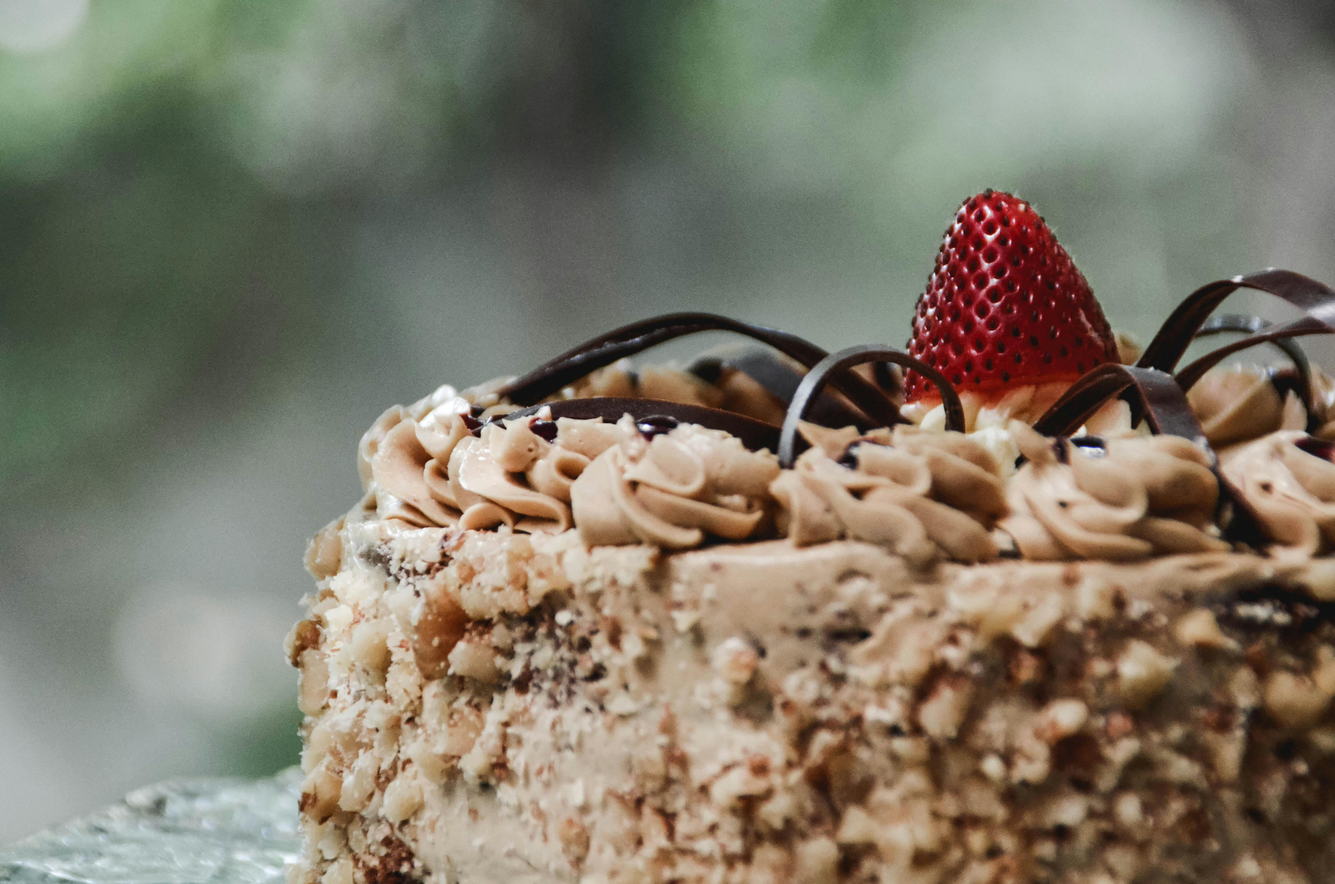
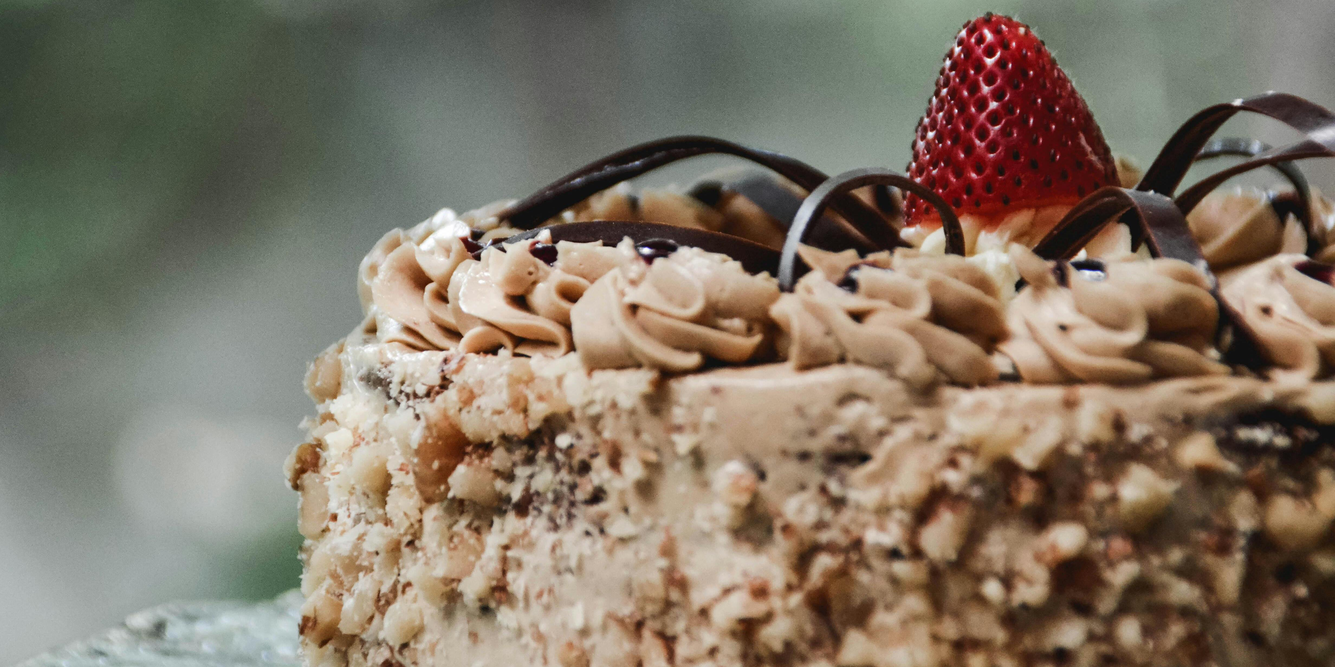
responsive container home and footer

diff --git a/src/components/Layouts/components/Header/index.jsx b/src/components/Layouts/components/Header/index.jsx
@@ -7,22 +7,22 @@ function Header() {
     navigator('/auth?mode=signin');
   };
 
-  const {pathname, search} = useLocation();
+  const { pathname, search } = useLocation();
 
-  useEffect(()=>{
-    window.scrollTo(0,0)
-  }, [pathname, search])
+  useEffect(() => {
+    window.scrollTo(0, 0);
+  }, [pathname, search]);
 
-  console.log(search)
+  console.log(search);
 
   const urls = ['/category', '/birthday-cake', '/tradition-cake', '/cookie', '/bread'];
   return (
     <header className="fixed top-0 z-10 h-16 w-full bg-slate-100">
-      <div className="mx-20 flex h-full items-center justify-between text-primary">
+      <div className="mx-10 flex h-full items-center justify-between gap-4 text-primary lg:mx-20">
         <Link to="/">
           <img src="./src/assets/images/logo.svg" alt="Cake with AI" className="mt-2" />
         </Link>
-        <ul className="flex gap-16 text-base uppercase">
+        <ul className="hidden lg:flex gap-12 px-4 text-base uppercase">
           <li className={pathname === '/' ? 'menu-active' : 'menu-navbar'}>
             <NavLink to="/">TRANG CHỦ</NavLink>
           </li>
@@ -44,7 +44,7 @@ function Header() {
             </NavLink>
 
             <div className="absolute left-0 top-full h-4 w-full cursor-default bg-transparent"></div>
-            <ul className="uppercase absolute left-0 top-10 z-10 hidden w-max rounded-lg bg-[#CAB6B6] text-sm group-hover:block">
+            <ul className="absolute left-0 top-10 z-10 hidden w-max rounded-lg bg-[#CAB6B6] text-sm uppercase group-hover:block">
               <li className="px-2 py-2 text-[#444444] hover:rounded-t-lg hover:bg-primary hover:text-slate-100">
                 <NavLink to="/birthday-cake">Bánh Sinh Nhật</NavLink>
               </li>
@@ -69,40 +69,50 @@ function Header() {
             <NavLink to="/about">VỀ CHÚNG TÔI</NavLink>
           </li>
         </ul>
-        <div className="flex gap-6">
-          {/* Cart Logo */}
-          <svg
-            xmlns="http://www.w3.org/2000/svg"
-            fill="none"
-            viewBox="0 0 24 24"
-            strokeWidth="1.5"
-            stroke="currentColor"
-            className="size-6 cursor-pointer"
-            onClick={() => viewCart()}
-          >
-            <path
-              strokeLinecap="round"
-              strokeLinejoin="round"
-              d="M2.25 3h1.386c.51 0 .955.343 1.087.835l.383 1.437M7.5 14.25a3 3 0 0 0-3 3h15.75m-12.75-3h11.218c1.121-2.3 2.1-4.684 2.924-7.138a60.114 60.114 0 0 0-16.536-1.84M7.5 14.25 5.106 5.272M6 20.25a.75.75 0 1 1-1.5 0 .75.75 0 0 1 1.5 0Zm12.75 0a.75.75 0 1 1-1.5 0 .75.75 0 0 1 1.5 0Z"
-            />
-          </svg>
-          {/* User Logo */}
-          <svg
-            xmlns="http://www.w3.org/2000/svg"
-            fill="none"
-            viewBox="0 0 24 24"
-            strokeWidth="1.5"
-            stroke="currentColor"
-            className="size-6 cursor-pointer hover:shadow-lg"
-            onClick={() => handleLogin()}
-          >
-            <path
-              strokeLinecap="round"
-              strokeLinejoin="round"
-              d="M15.75 6a3.75 3.75 0 1 1-7.5 0 3.75 3.75 0 0 1 7.5 0ZM4.501 20.118a7.5 7.5 0 0 1 14.998 0A17.933 17.933 0 0 1 12 21.75c-2.676 0-5.216-.584-7.499-1.632Z"
-            />
-          </svg>
-        </div>
+      
+      <div className="flex gap-6">
+        {/* Cart Logo */}
+        <svg
+          xmlns="http://www.w3.org/2000/svg"
+          fill="none"
+          viewBox="0 0 24 24"
+          strokeWidth="1.5"
+          stroke="currentColor"
+          className="navbar-icon"
+          onClick={() => viewCart()}
+        >
+          <path
+            strokeLinecap="round"
+            strokeLinejoin="round"
+            d="M2.25 3h1.386c.51 0 .955.343 1.087.835l.383 1.437M7.5 14.25a3 3 0 0 0-3 3h15.75m-12.75-3h11.218c1.121-2.3 2.1-4.684 2.924-7.138a60.114 60.114 0 0 0-16.536-1.84M7.5 14.25 5.106 5.272M6 20.25a.75.75 0 1 1-1.5 0 .75.75 0 0 1 1.5 0Zm12.75 0a.75.75 0 1 1-1.5 0 .75.75 0 0 1 1.5 0Z"
+          />
+        </svg>
+        {/* User Logo */}
+        <svg
+          xmlns="http://www.w3.org/2000/svg"
+          fill="none"
+          viewBox="0 0 24 24"
+          strokeWidth="1.5"
+          stroke="currentColor"
+          className="navbar-icon"
+          onClick={() => handleLogin()}
+        >
+          <path
+            strokeLinecap="round"
+            strokeLinejoin="round"
+            d="M15.75 6a3.75 3.75 0 1 1-7.5 0 3.75 3.75 0 0 1 7.5 0ZM4.501 20.118a7.5 7.5 0 0 1 14.998 0A17.933 17.933 0 0 1 12 21.75c-2.676 0-5.216-.584-7.499-1.632Z"
+          />
+        </svg>
+        <svg
+          xmlns="http://www.w3.org/2000/svg"
+          stroke="currentColor"
+          strokeWidth="0.5"
+          className="navbar-icon lg:hidden"
+          viewBox="0 0 30 30"
+        >
+          <path d="M 3 7 A 1.0001 1.0001 0 1 0 3 9 L 27 9 A 1.0001 1.0001 0 1 0 27 7 L 3 7 z M 3 14 A 1.0001 1.0001 0 1 0 3 16 L 27 16 A 1.0001 1.0001 0 1 0 27 14 L 3 14 z M 3 21 A 1.0001 1.0001 0 1 0 3 23 L 27 23 A 1.0001 1.0001 0 1 0 27 21 L 3 21 z"></path>
+        </svg>
+      </div>
       </div>
     </header>
   );

diff --git a/src/components/Layouts/components/Seller/index.jsx b/src/components/Layouts/components/Seller/index.jsx
@@ -20,16 +20,16 @@ function Seller() {
   };
   return (
     <div className="best-seller">
-      <div className="mx-28 my-20 flex items-center text-primary">
-        <h1 className="basis-1/2 text-center text-5xl font-bold">Our Best Sellers...</h1>
-        <div className="h-28 border-l-2 border-primary pr-8"></div>
-        <p className="basis-1/2 text-xl font-medium">
+      <div className="lg:mx-28 mx-10 lg:my-20 my-10 flex flex-col lg:flex-row items-center text-primary">
+        <h1 className="lg:basis-1/2 text-center lg:text-5xl md:text-4xl text-3xl font-bold">Our Best Sellers...</h1>
+        <div className="h-1 w-28 border-b-2 border-primary lg:pr-8 lg:rotate-90 lg:my-0 my-1"></div>
+        <p className="lg:basis-1/2 lg:text-xl text-base font-medium">
           We proudly present our most beloved creations, universally adored by all. The delectable lightness and
           sweetness of our cakes will leave you craving for more. Explore our diverse range of cakes, breads, and other
           delectable offerings.
         </p>
       </div>
-      <div className="Our-product relative grid w-full grid-custom-seller justify-evenly">
+      <div className="Our-product relative grid w-full lg:grid-custom-3 md:grid-custom-2 grid-custom-1 justify-evenly lg:gap-0 gap-6">
         {sellers.map((seller, index) => (
           index < 3 && (
           <div key = {index} className="img-scale w-[300px]">
@@ -112,11 +112,11 @@ function Seller() {
           <BsChevronCompactRight size={30} onClick={() => nextSlide()} />
         </div>
       </div>
-      <div className="Introduce mx-24 my-10 flex">
-        <img src={tessaCake} alt="" width="500px" className="rounded-br-[5rem] rounded-tl-[5rem] shadow-2xl" />
-        <div className="ml-20 flex flex-col justify-center gap-4 text-primary">
-          <h2 className="text-4xl font-bold">Oven-fresh baked goods, baked just for you</h2>
-          <p className="ml-4 text-2xl font-normal">
+      <div className="Introduce lg:mx-24 mx-10 my-10 lg:flex">
+        <img src={tessaCake} alt="" width="100%" height='100%' className="rounded-br-[5rem] rounded-tl-[5rem] shadow-2xl lg:max-w-[500px] max-w-[300px] h-auto mx-auto" />
+        <div className="lg:ml-20 lg:flex lg:my-0 my-8 lg:flex-col justify-center gap-4 text-primary">
+          <h2 className="lg:text-4xl text-2xl font-bold">Oven-fresh baked goods, baked just for you</h2>
+          <p className="ml-4 lg:text-2xl text-lg font-normal">
             We bake delicious treats with the finest ingredients. From warm chocolate chip cookies to flaky croissants,
             every bite is filled with warmth and flavor. Come experience the magic of our bakery.
           </p>

diff --git a/src/components/Layouts/components/Footer/index.jsx b/src/components/Layouts/components/Footer/index.jsx
@@ -1,16 +1,17 @@
 import { Link } from 'react-router-dom';
 function Footer() {
   return (
-    <footer className="relative flex h-[416px] w-full justify-evenly border-t-2 bg-[#E8E1E1] text-black">
-      <div className="flex flex-col items-center py-10">
+    <footer className="relative grid grid-custom-4 lg:h-[416px] h-[660px] w-full justify-evenly border-t-2 bg-[#E8E1E1] text-black">
+      <div className="lg:col-span-1 col-span-4 items-center lg:py-10 py-4 lg:mx-0 mx-auto">
         <Link to="/">
-          <img src="./src/assets/images/logo.svg" alt="Cake with AI" className="mt-12" />
+          <img src="./src/assets/images/logo.svg" alt="Cake with AI" className="lg:mt-12 mt-4 mx-auto lg:mx-0" />
         </Link>
         <div className="mt-2">
           <h2 className="text-xl text-[#3D3D3D]">Luôn lắng nghe, luôn thấu hiểu</h2>
         </div>
       </div>
-      <div className="my-20">
+
+      <div className="lg:my-20 lg:col-span-1 col-span-2 lg:mx-0 mx-4">
         <h3 className="text-xl font-semibold text-[#664545]">Về chúng tôi</h3>
         <ul className="mt-4 space-y-4 text-base text-[#3D3D3D]">
           <li>
@@ -30,7 +31,7 @@ function Footer() {
           </li>
         </ul>
       </div>
-      <div className="my-20">
+      <div className="lg:my-20 lg:col-span-1 col-span-2 lg:mx-0 mx-4">
         <h3 className="text-xl font-semibold text-[#664545]">Chính sách</h3>
         <ul className="mt-4 space-y-4 text-base text-[#3D3D3D]">
           <li>
@@ -60,7 +61,7 @@ function Footer() {
           </li>
         </ul>
       </div>
-      <div className="my-20">
+      <div className="lg:my-20 lg:col-span-1 col-span-4 lg:mx-0 mx-4">
         <h3 className="text-xl font-semibold text-[#664545]">Liên hệ</h3>
         <ul className="mt-4 space-y-4 text-base text-[#3D3D3D]">
           <li>
@@ -92,15 +93,15 @@ function Footer() {
         </ul>
       </div>
 
-      <div className="absolute inset-x-0 bottom-0 mx-auto mt-1 flex w-[60%] items-end justify-center border-t-2 py-4">
-        <div className="inline-flex">
+      <div className="lg:col-span-1 col-span-4 lg:absolute inset-x-0 bottom-0 mx-auto mt-1 lg:flex lg:w-[60%] lg:items-end items-center justify-center border-t-2 py-4">
+        
           <div className="text-[#B4B9C9]"> Copyright © 2024 CAKEWAI | All Rights Reserved | </div>{' '}
-          <div>
+          <div className='text-center'>
             <Link to="#" className="ml-1 text-[#353E5C] underline hover:text-[#9E6B6B]">
               Điều khoản và điều kiện
             </Link>
           </div>
-        </div>
+       
       </div>
     </footer>
   );

diff --git a/src/components/Layouts/components/Slider/index.jsx b/src/components/Layouts/components/Slider/index.jsx
@@ -11,7 +11,7 @@ import { useEffect, useState } from 'react';
 import { RxDotFilled } from 'react-icons/rx';
 
 function Slider() {
-  const sliders = [cake1, cake2, cake3, cake4, cake5, cake6, cake7];
+  const sliders = [ cake1, cake2, cake3, cake4, cake5, cake6, cake7];
 
   const [slider, setSlider] = useState(0);
 
@@ -38,26 +38,26 @@ function Slider() {
     setSlider(index);
   };
   return (
-    <div className="slider relative w-full">
+    <div className="slider relative w-full mt-16">
       <div
         style={{ backgroundImage: `url(${sliders[slider]})` }}
-        className="mt-16 flex w-full items-center bg-cover bg-center pt-[50%] duration-500"
+        className=" flex w-full items-center bg-cover bg-center pt-[40%] duration-500"
       ></div>
-      <h2 className="absolute bottom-[22rem] left-28 text-2xl font-bold text-slate-100">
+      <h2 className="absolute bottom-[50%] left-[10%] lg:text-2xl font-bold text-slate-100 md:text-lg text-base">
         Bring you Happiness <br />
         through a piece of cake
       </h2>
-      <p className="absolute bottom-[18rem] left-28 text-xl font-medium text-slate-100">
+      <p className="absolute bottom-[35%] left-[10%] lg:text-xl md:text-lg text-xs  font-medium text-slate-100">
         Reach out to us to place an order or ask about our many menu options. <br />
         We'd love to help you create a memorable dessert experience
       </p>
-      <button className="absolute bottom-48 left-28 h-12 w-40 rounded-lg bg-slate-200 text-xl font-medium text-primary">
+      <button className="absolute bottom-[20%] left-[10%] h-[10%] w-[12%] lg:rounded-lg rounded-md bg-slate-200 lg:text-xl md:text-lg text-[10px] font-medium text-primary">
         Discover
       </button>
-      <div className="absolute left-5 top-[50%] -translate-x-0 translate-y-[50%] cursor-pointer rounded-full bg-black/20 p-2 text-2xl text-white">
+      <div className="absolute left-[1%] top-[40%] -translate-x-0 translate-y-[50%] cursor-pointer rounded-full bg-black/20 p-2 text-2xl text-white">
         <BsChevronCompactLeft size={30} onClick={() => prevSlide()} />
       </div>
-      <div className="absolute right-5 top-[50%] -translate-x-0 translate-y-[50%] cursor-pointer rounded-full bg-black/20 p-2 text-2xl text-white">
+      <div className="absolute right-[1%] top-[40%] -translate-x-0 translate-y-[50%] cursor-pointer rounded-full bg-black/20 p-2 text-2xl text-white">
         <BsChevronCompactRight size={30} onClick={() => nextSlide()} />
       </div>
       <div className="absolute bottom-0 left-[45%] flex justify-center py-2">

diff --git a/src/components/Layouts/components/Blog/index.jsx b/src/components/Layouts/components/Blog/index.jsx
@@ -14,11 +14,11 @@ function Blog() {
 
   return (
     <div className="Hot-event pb-32 pt-4">
-      <h1 className="text-center text-5xl font-bold text-primary">Hot Event</h1>
-      <div className="Our-product relative flex w-full justify-center gap-4">
-        <div className="img-scale my-10 h-[430px] w-[354px]">
+      <h1 className="text-center lg:text-5xl text-3xl font-bold text-primary">Hot Event</h1>
+      <div className="Our-product relative grid lg:grid-custom-3 md:grid-custom-2 grid-custom-1 w-full justify-center lg:gap-4 gap-16">
+        <div className="img-scale my-10 max-h-[430px] max-w-[354px]   ">
           <a href="#">
-            <img src={tessaCake} alt="" className="rounded-t-xl" />
+            <img src={tessaCake} alt="" width='100%' height='100%' className="rounded-t-xl h-auto w-full" />
           </a>
           <div className="rounded-b-xl bg-slate-100">
             <div className="mx-6 py-5">
@@ -109,10 +109,10 @@ function Blog() {
             </div>
           </div>
         </div>
-        <div className="absolute left-5 top-[50%] -translate-x-0 translate-y-[50%] cursor-pointer rounded-full bg-black/20 p-2 text-2xl text-white">
+        <div className="hidden lg:block absolute left-5 top-[50%] -translate-x-0 translate-y-[50%] cursor-pointer rounded-full bg-black/20 p-2 text-2xl text-white">
           <BsChevronCompactLeft size={30} onClick={() => prevSlide()} />
         </div>
-        <div className="absolute right-5 top-[50%] -translate-x-0 translate-y-[50%] cursor-pointer rounded-full bg-black/20 p-2 text-2xl text-white">
+        <div className="hidden lg:block absolute right-5 top-[50%] -translate-x-0 translate-y-[50%] cursor-pointer rounded-full bg-black/20 p-2 text-2xl text-white">
           <BsChevronCompactRight size={30} onClick={() => nextSlide()} />
         </div>
       </div>

diff --git a/src/index.css b/src/index.css
@@ -19,10 +19,28 @@
   .img-scale {
     @apply transform transition duration-500 hover:scale-105
   }
+  .navbar-icon {
+    @apply size-6 cursor-pointer
+  }
 }
 
 @layer utilities {
-  .grid-custom-seller {
+  .grid-custom-3 {
     grid-template-columns: repeat(3, minmax(0, max-content))
+  }
+  .grid-custom-2 {
+    grid-template-columns: repeat(2, minmax(0, max-content))
+  }
+  .grid-custom-1 {
+    grid-template-columns: repeat(1, minmax(0, max-content))
+  }
+  .grid-custom-4 {
+    grid-template-columns: repeat(4, minmax(0, max-content))
+  }
+  .grid-custom-rows-2 {
+    grid-template-rows: repeat(2, minmax(0, max-content))
+  }
+  .grid-custom-rows-1 {
+    grid-template-rows: repeat(1, minmax(0, max-content))
   }
 }

diff --git a/src/components/Layouts/DefaultLayout/index.jsx b/src/components/Layouts/DefaultLayout/index.jsx
@@ -2,7 +2,7 @@ import Header from '../components/Header';
 import Footer from '../components/Footer';
 function DefaultLayout({ children }) {
   return (
-    <div className="wrapper w-screen">
+    <div className="wrapper max-w-screen-xl">
       <Header />
       <div className="">{children}</div>
       <Footer />
